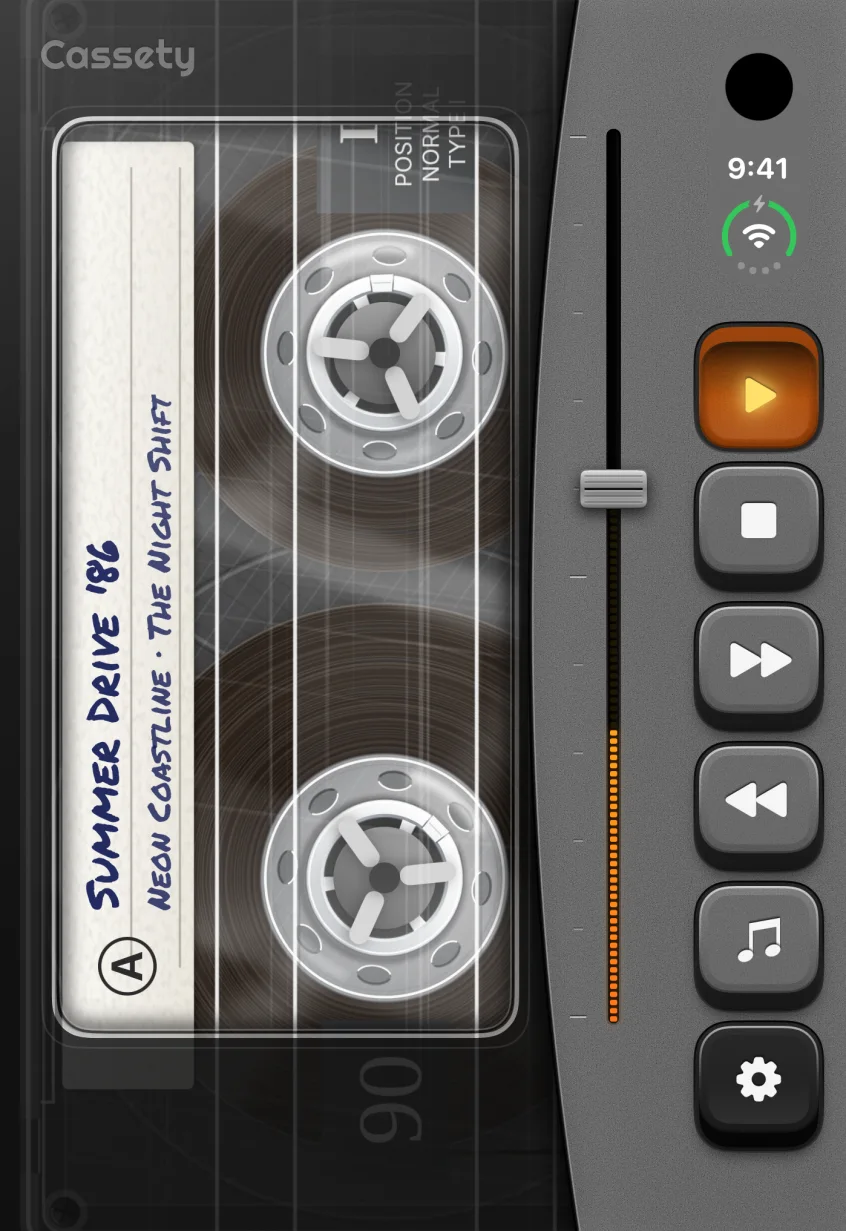
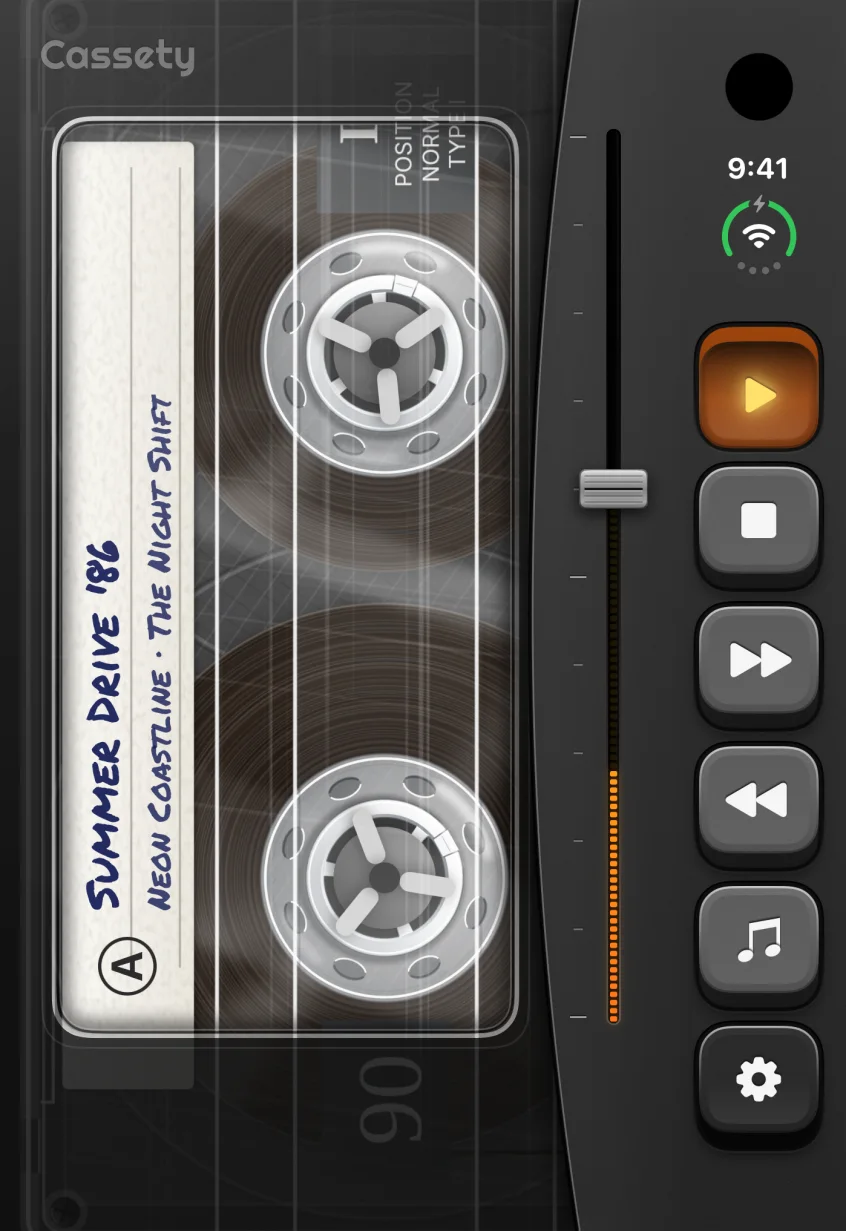
Show the panels in their true colours
The moulded grain was laid over the side panels and keys with a blend mode
that did not take effect there, so it sat on top as flat grey and dulled
them: the Yellow panel looked khaki and the Retro 80s one lavender. The
grain is now drawn as faint light and dark speckles with no blend mode, so
each panel shows the colour it was designed in. Website pictures retaken.

Changed region(s): [[0.6147, 0.0, 1.0, 1.0], [0.3073, 0.6174, 0.5839, 0.8026], [0.3073, 0.1852, 0.5839, 0.3704]]

diff --git a/TapeDeck/DeckView.swift b/TapeDeck/DeckView.swift
@@ -820,16 +820,25 @@ private struct KeyCap: View {
     }
 }
 
-/// Fine moulded grain, laid over a plastic surface.
+/// Fine moulded grain, laid over a plastic surface: faint light and dark
+/// speckles cut from the grain texture. It is drawn as plain, nearly clear
+/// white and black, not with a blend mode, so it reads the same wherever it
+/// is used and never greys the colour beneath.
 struct PlasticGrain: View {
     var strength = 0.45
 
     var body: some View {
-        Image("Grain")
-            .resizable(resizingMode: .tile)
-            .blendMode(.overlay)
-            .opacity(strength)
-            .allowsHitTesting(false)
+        ZStack {
+            Color.white.opacity(0.20 * strength)
+                .mask(tile.luminanceToAlpha())
+            Color.black.opacity(0.34 * strength)
+                .mask(tile.colorInvert().luminanceToAlpha())
+        }
+        .allowsHitTesting(false)
+    }
+
+    private var tile: some View {
+        Image("Grain").resizable(resizingMode: .tile)
     }
 }
 
